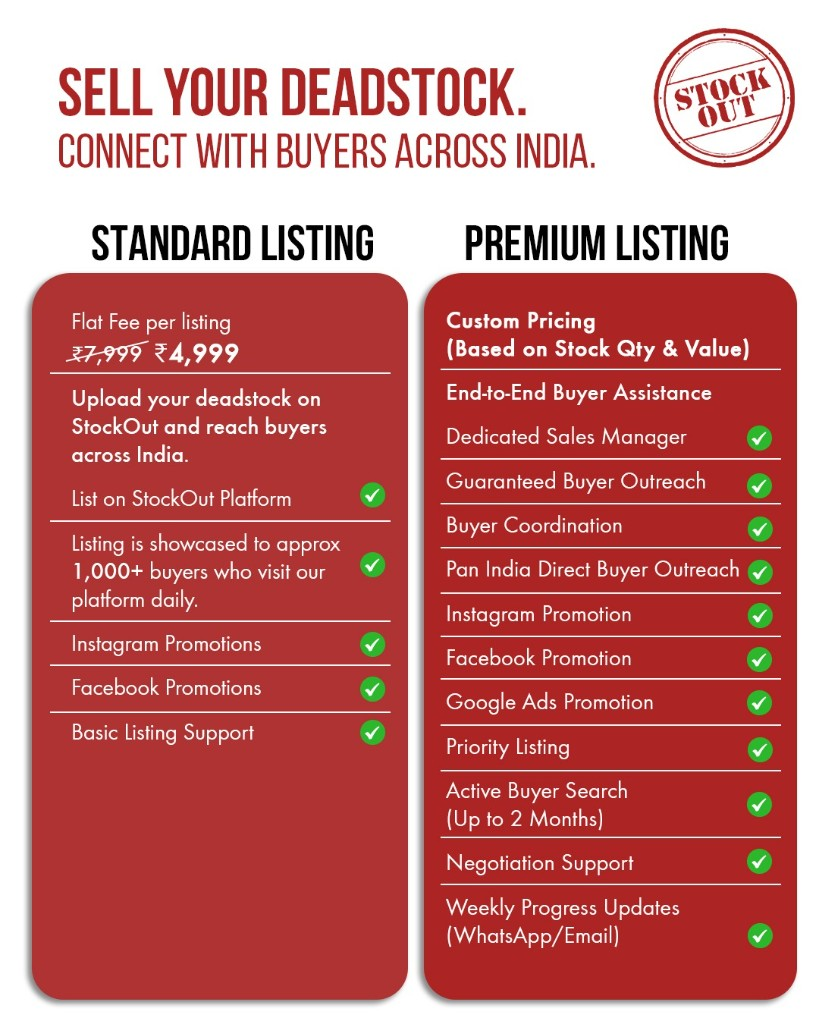
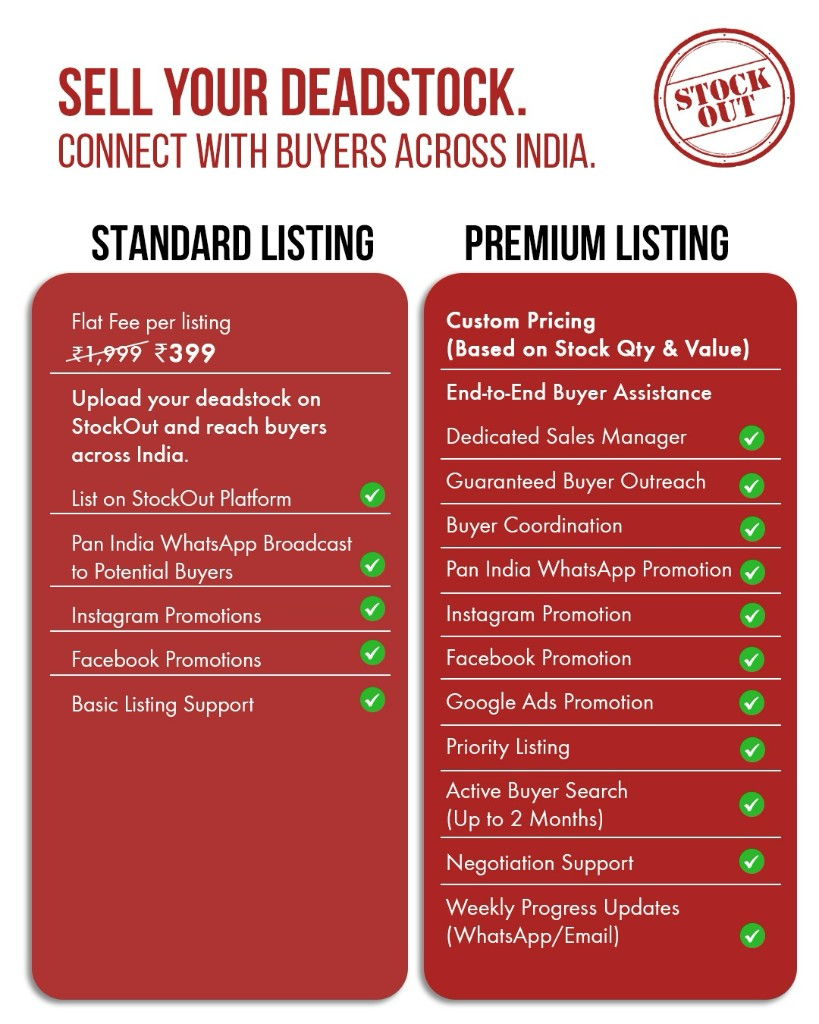
Homepage Layout Update

Changed region(s): [[0.0611, 0.5, 0.4884, 0.75], [0.641, 0.4062, 0.9463, 0.9375], [0.2137, 0.3125, 0.3053, 0.375]]

diff --git a/custom/custom.css b/custom/custom.css
@@ -972,7 +972,49 @@
   }
 /* End Whatsapp */
 
-  /* Promo images just above footer */
+  /* Two Icons: Standard + Premium listing */
+  .listing-icons-section {
+      background: #fff;
+      padding: 36px 0 12px;
+  }
+  .listing-icons-grid {
+      display: grid;
+      grid-template-columns: 1fr 1fr;
+      gap: 28px;
+      max-width: 820px;
+      margin: 0 auto;
+      align-items: center;
+  }
+  .listing-icon-card {
+      display: block;
+      text-decoration: none;
+      transition: transform 0.25s ease;
+  }
+  .listing-icon-card:hover {
+      transform: translateY(-4px);
+  }
+  .listing-icon-card img {
+      width: 100%;
+      height: auto;
+      max-height: 360px;
+      object-fit: contain;
+      display: block;
+      border-radius: 12px;
+      background: #fff;
+  }
+  @media (max-width: 575px) {
+      .listing-icons-section {
+          padding: 20px 0 8px;
+      }
+      .listing-icons-grid {
+          gap: 14px;
+      }
+      .listing-icon-card img {
+          max-height: 240px;
+      }
+  }
+
+  /* Two Pictures: Explanation + Why Business Use (just above footer) */
   .footer-promo {
       background: #fff;
       padding: 28px 0 32px;
@@ -986,7 +1028,7 @@
   .footer-promo-item img {
       width: 100%;
       height: auto;
-      max-height: 320px;
+      max-height: 360px;
       object-fit: contain;
       object-position: top;
       display: block;
@@ -1002,7 +1044,7 @@
           gap: 12px;
       }
       .footer-promo-item img {
-          max-height: 220px;
+          max-height: 240px;
       }
   }
 

diff --git a/footer.php b/footer.php
@@ -1,11 +1,13 @@
+
+            <!-- Two Pictures: Explanation + Why Business Use -->
             <div class="footer-promo">
                 <div class="container">
                     <div class="footer-promo-grid">
                         <div class="footer-promo-item">
-                            <img src="uploads/why-choose-stockout.png" alt="Why businesses choose StockOut">
+                            <img src="uploads/sell-deadstock-plans.png" alt="Sell your deadstock — Standard and Premium listing plans">
                         </div>
                         <div class="footer-promo-item">
-                            <img src="uploads/sell-deadstock-plans.png" alt="Sell your deadstock. Connect with buyers across India.">
+                            <img src="uploads/why-choose-stockout.png" alt="Why businesses choose StockOut">
                         </div>
                     </div>
                 </div>

diff --git a/pages/make-payment.php b/pages/make-payment.php
@@ -26,7 +26,7 @@
                         <label for="comment_input">Comment:</label>
                         <textarea id="comment_input" rows="4" placeholder="Enter comment..."></textarea>
                     </div>
-                    <h2>Total: ₹4999</h2>
+                    <h2>Total: ₹399</h2>
                 </div>
                 <!-- Coupon Section -->
                 <div class="coupon_section mb-4">
@@ -66,7 +66,7 @@
     const cancelCouponBtn = document.getElementById("cancel_coupon_btn");
     const discountInfo = document.getElementById("discount_info");
 
-    let productPrice = 4999;
+    let productPrice = 399;
     let finalAmount = productPrice;
     let originalOrderId = "";
     let razorpay_order_id = "";

diff --git a/inc_files/listing_icons_section.php b/inc_files/listing_icons_section.php
@@ -1,0 +1,12 @@
+<section class="listing-icons-section">
+  <div class="container">
+    <div class="listing-icons-grid">
+      <a href="pages/account?tab=addProducts" class="listing-icon-card" title="Standard Listing">
+        <img src="uploads/standard-listing.png" alt="Standard Listing — upload your deadstock details on StockOut">
+      </a>
+      <a href="https://wa.me/<?= WHATSAPP_NUMBER ?>?text=Hi%2C%20I%20am%20interested%20in%20Premium%20Listing" target="_blank" rel="noopener" class="listing-icon-card" title="Premium Listing">
+        <img src="uploads/premium-listing.png" alt="Premium Listing — personalised buyer assistance">
+      </a>
+    </div>
+  </div>
+</section>

diff --git a/inc_files/home_page_products.php b/inc_files/home_page_products.php
@@ -1,6 +1,7 @@
 <section class="popular-products">
     <div class="container">
-      <div class="container py-4appear-animate" data-animation-name="fadeInUpShorter" data-animation-delay="200">
+      <h2 class="section-title appear-animate" data-animation-name="fadeInUpShorter" data-animation-delay="200">All Products</h2>
+      <div class="container py-4 appear-animate" data-animation-name="fadeInUpShorter" data-animation-delay="200">
         <div id="product-container" class="row gy-4">
 
         </div>

diff --git a/index.php b/index.php
@@ -7,6 +7,7 @@
 
   <?php include("inc_files/home_page_products.php"); ?>
 
+  <?php include("inc_files/listing_icons_section.php"); ?>
 
 </main>
 <!-- End Home Pages -->
